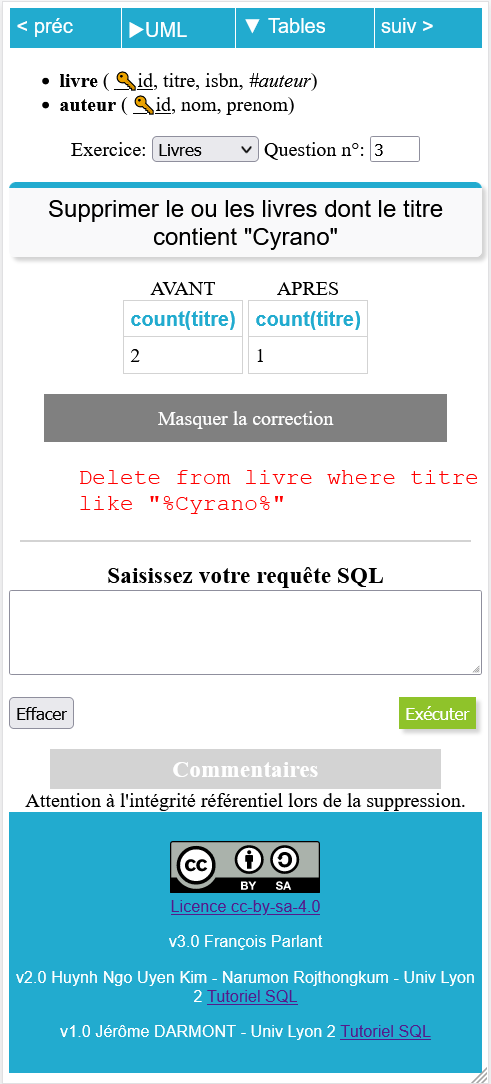
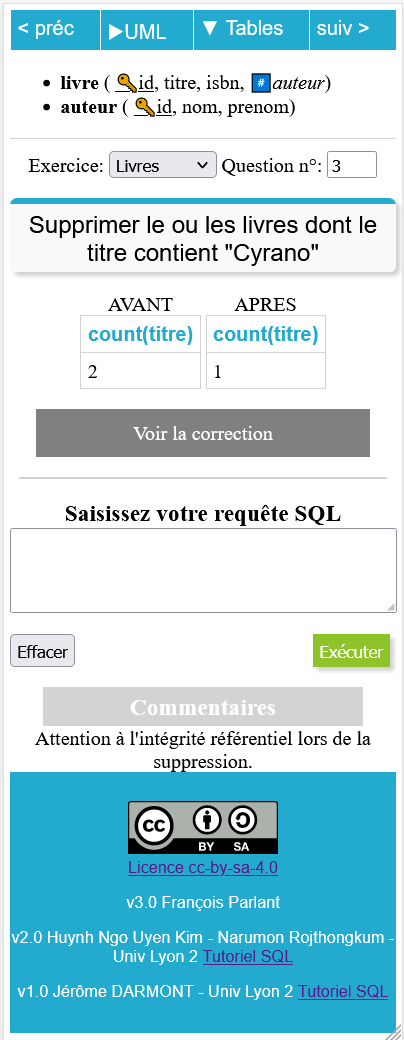
rollback aperçu

Changed region(s): [[0.0, 0.0, 1.0, 0.5538], [0.0, 0.4923, 1.0, 1.0]]

diff --git a/src/style.css b/src/style.css
@@ -26,6 +26,11 @@ nav .sep:before, #attribution span {
 	
 }
 
+#schemaRel {
+	border-bottom: 1px solid lightgrey;
+	margin-bottom: 10px;
+}
+
 #schemaRel .tname {
 	font-weight:bold;
 }
@@ -42,8 +47,9 @@ nav .sep:before, #attribution span {
 	font-style:italic;
 }
 #schemaRel .ce:before {
-	
-	content: "#";
+	font-style:normal;
+	font-size:smaller;
+	content: "#⃣";
 }
 #corrTable {
 	display:flex;

diff --git a/readme.md b/readme.md
@@ -70,6 +70,10 @@ Les exercices ont été principalement crées pour les étudiants en DCG
 * hébergement github
 * [ ]insert / update / delete encadrés par des TRANSAC (Begin... Rollback)
 
+## Exemple Rollback
+La table des questions contient une colonne "ROLLBACK" avec une requête à effectuer AVANT et APRÈS:
+
+![Rollback](https://github.com/fxpar/SQLpratique/blob/main/res/screenshot-mobile-02.png)
 
 
 # Collaboration
